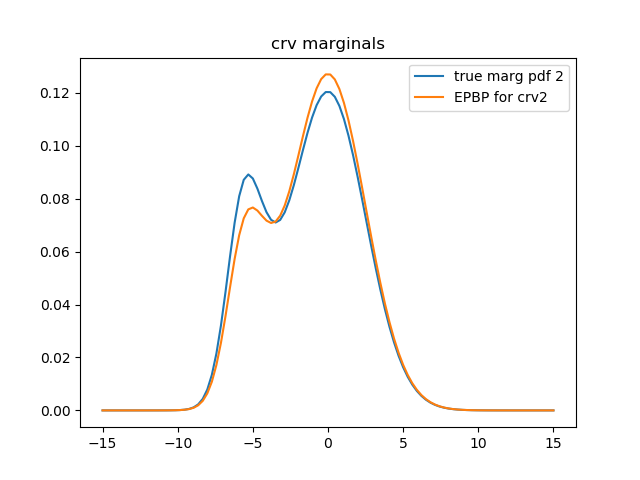
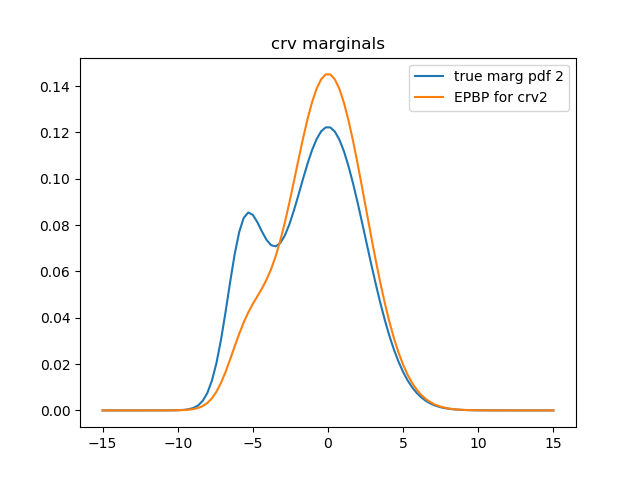
reduce discrete formula weight to 0.0001 in hybrid_mln_experiment.py, EPBP no longer exact!

diff --git a/osi/hybrid_mln_experiment.py b/osi/hybrid_mln_experiment.py
@@ -50,7 +50,7 @@ atom_D = Atom(domain_bool, logical_variables=(lv_x, lv_s), name='D')
 atom_E = Atom(domain_bool, logical_variables=(lv_y, lv_s), name='E')
 
 f1 = ParamF(  # disc
-    MLNPotential(lambda x: imp_op(x[0] * x[1], x[2]), w=0.1), nb=(atom_D, atom_E, atom_C)
+    MLNPotential(lambda x: imp_op(x[0] * x[1], x[2]), w=0.0001), nb=(atom_D, atom_E, atom_C)
 )
 
 w_h = 0.2  # smaller (like 0.06) gives skew instead
